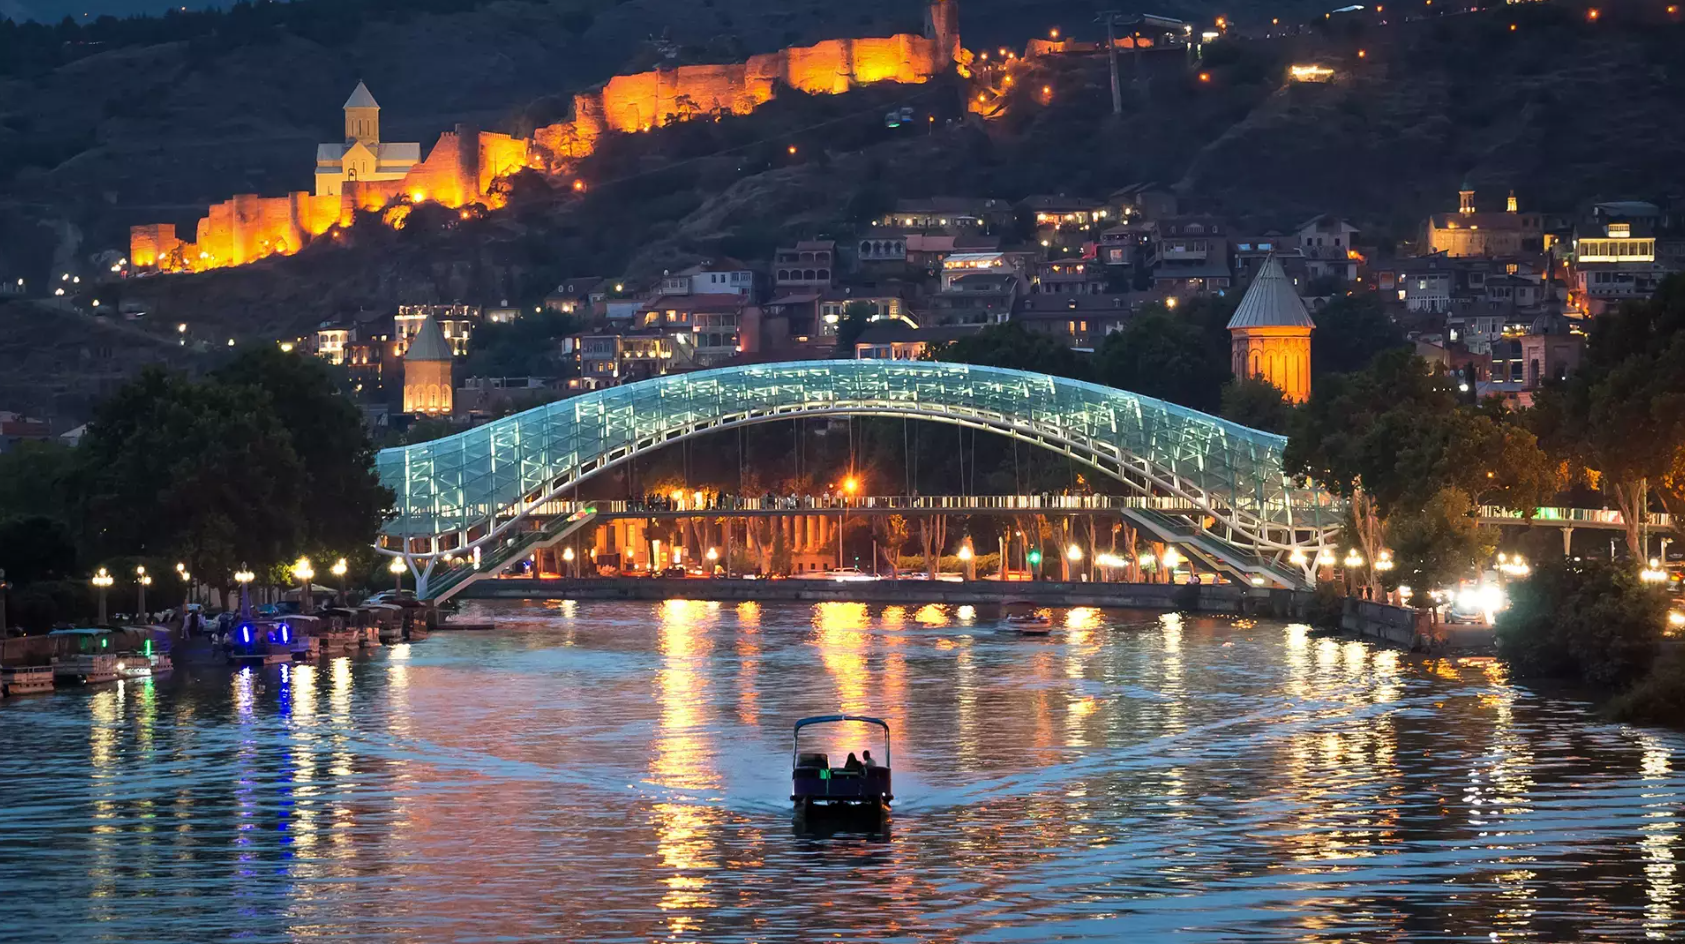
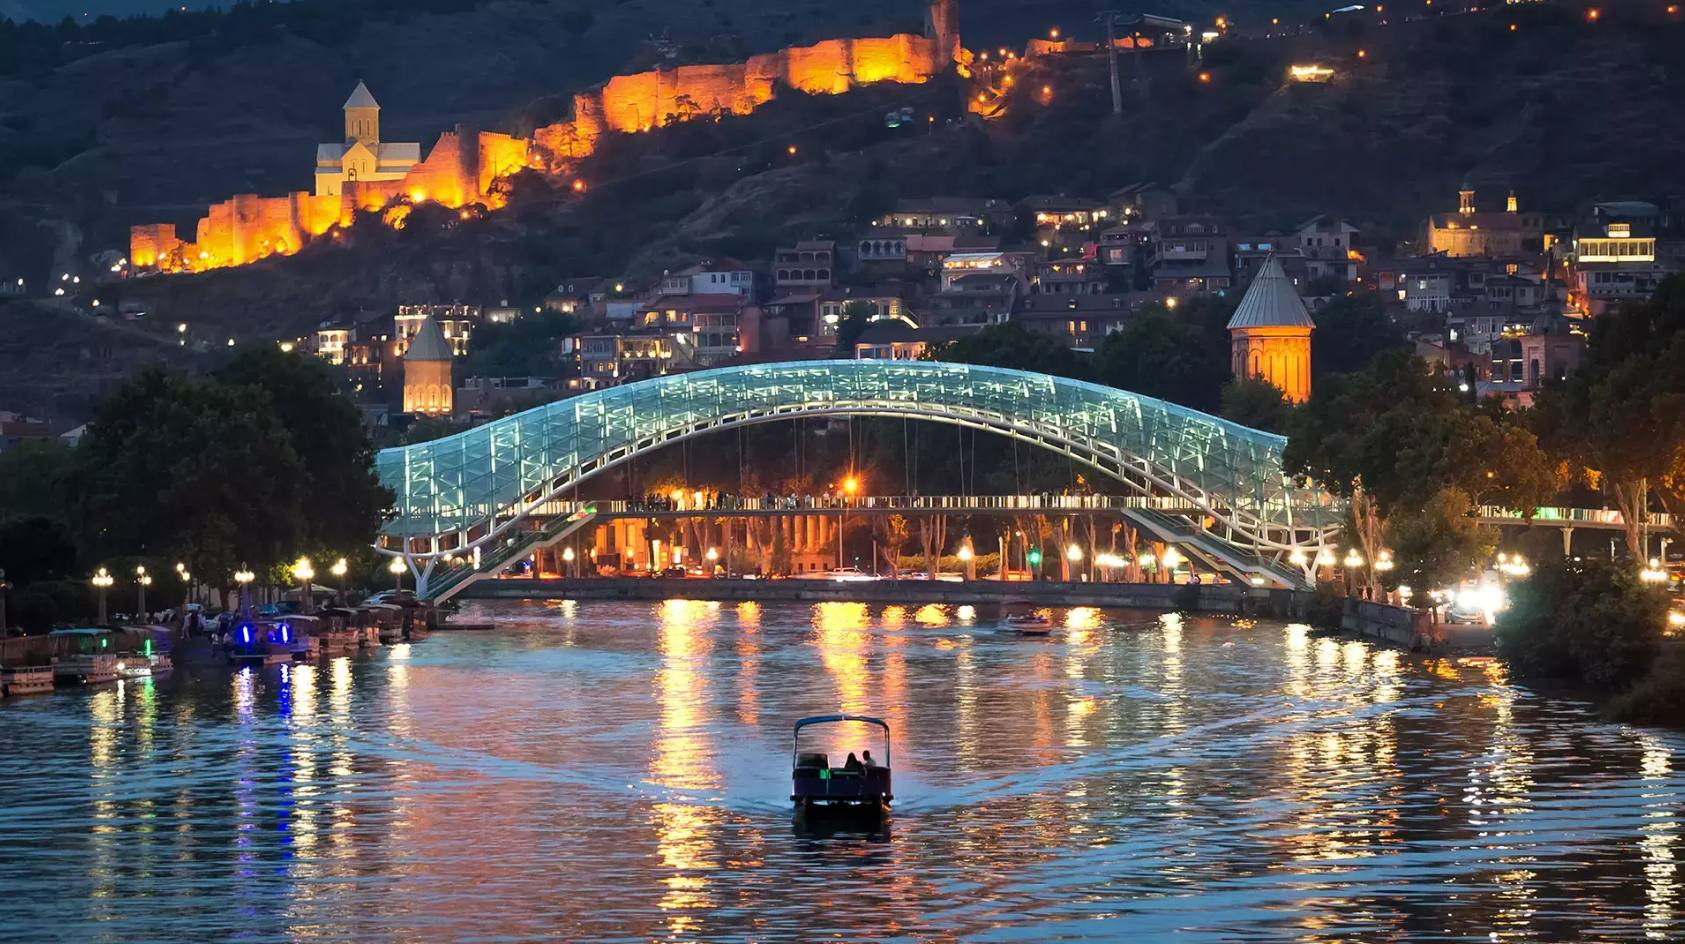
Add files via upload

diff --git a/style.css b/style.css
@@ -83,7 +83,7 @@ h1, h2, h3 {
     /* ოდნავ უფრო მუქი ფენა, რომ ტექსტი ფოტოს ფონზე მკაფიოდ გამოჩნდეს */
     background:
         linear-gradient(rgba(10, 18, 24, 0.48), rgba(10, 18, 24, 0.48)),
-        url('tbilisi.png') center/cover no-repeat;
+        url('tbilisi.jpg') center/cover no-repeat;
     display: flex;
     justify-content: center;
     align-items: center;
@@ -402,4 +402,13 @@ body { transition: background-color .4s, color .4s; }
 @media (max-width: 768px) {
     .navbar-home { display: flex; }
     .navbar-home .nav-center a:first-child { margin-left: 6px; }
+}
+
+/* მობილურზე უფრო მსუბუქი დღის ფონი */
+@media (max-width: 768px) {
+    html:not([data-theme="dark"]) .hero {
+        background:
+            linear-gradient(rgba(10, 18, 24, 0.48), rgba(10, 18, 24, 0.48)),
+            url('tbilisi-mobile.jpg') center/cover no-repeat;
+    }
 }
